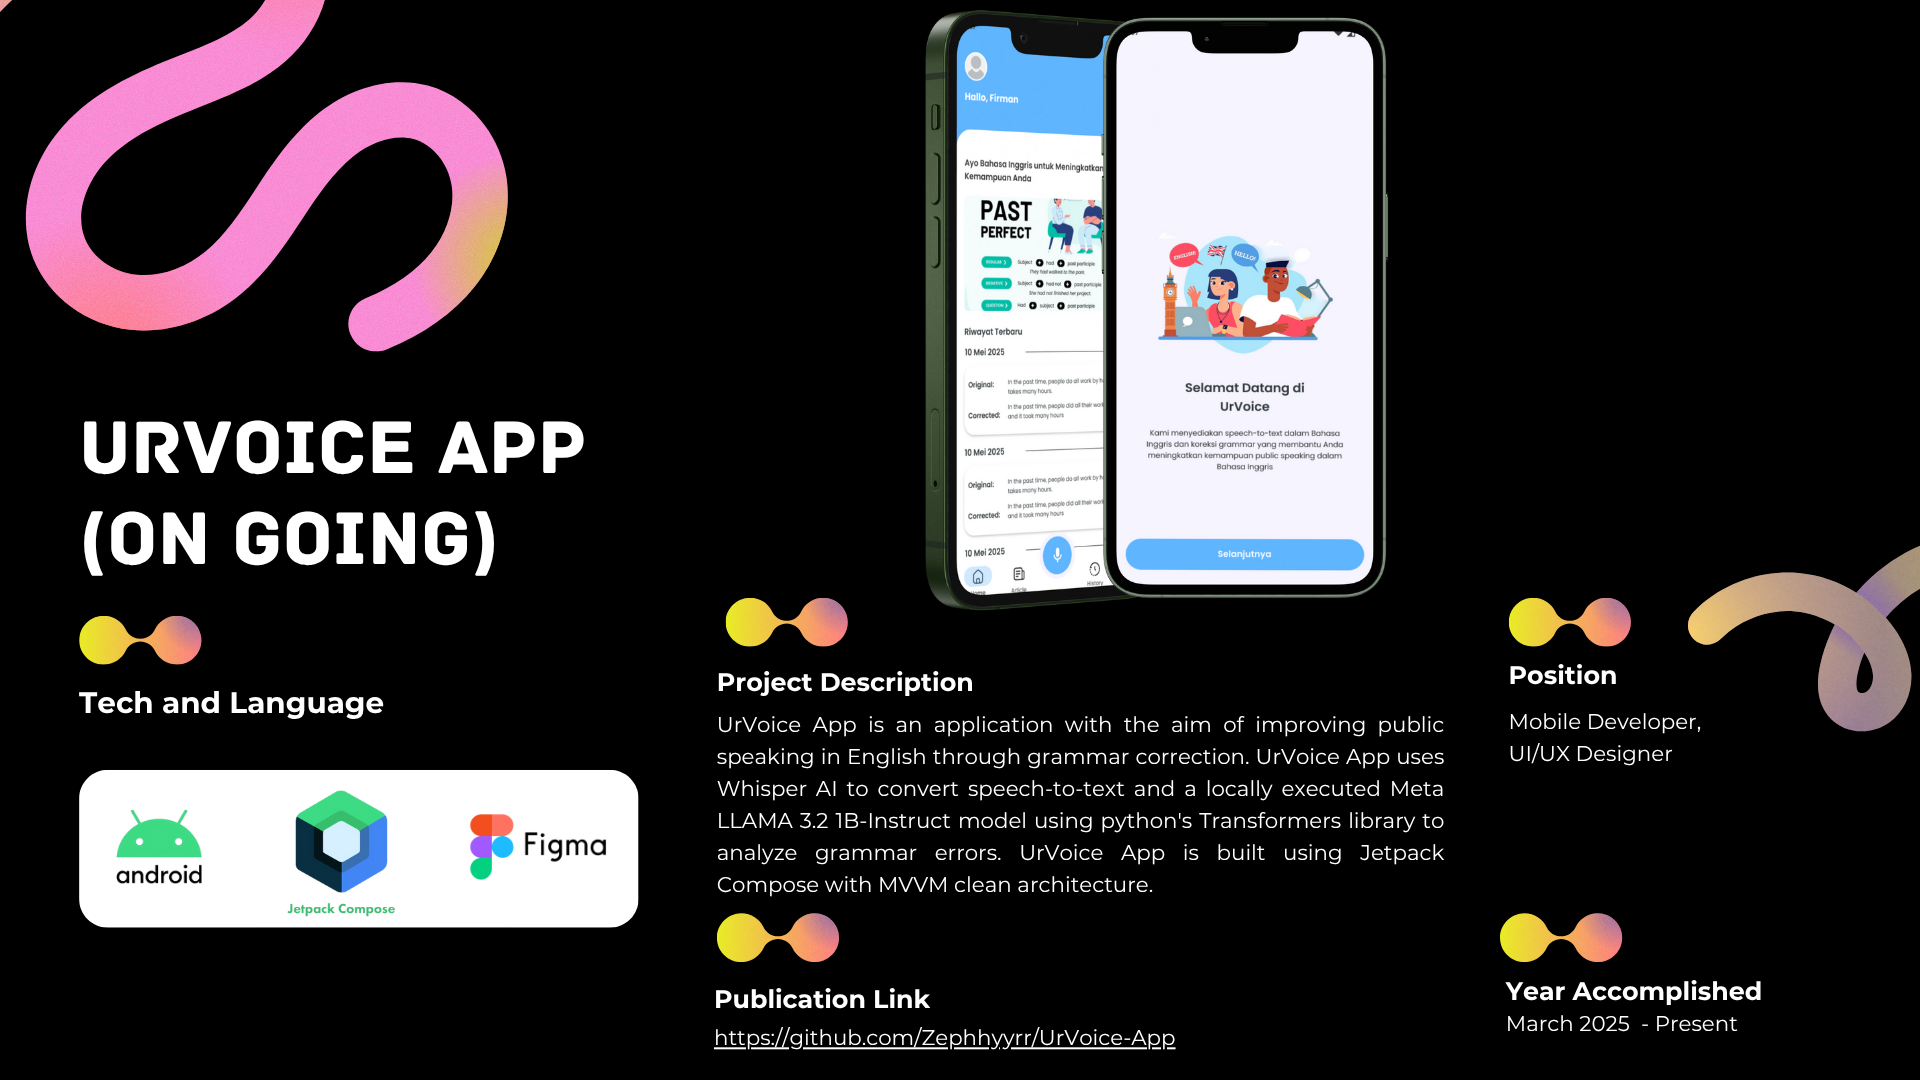
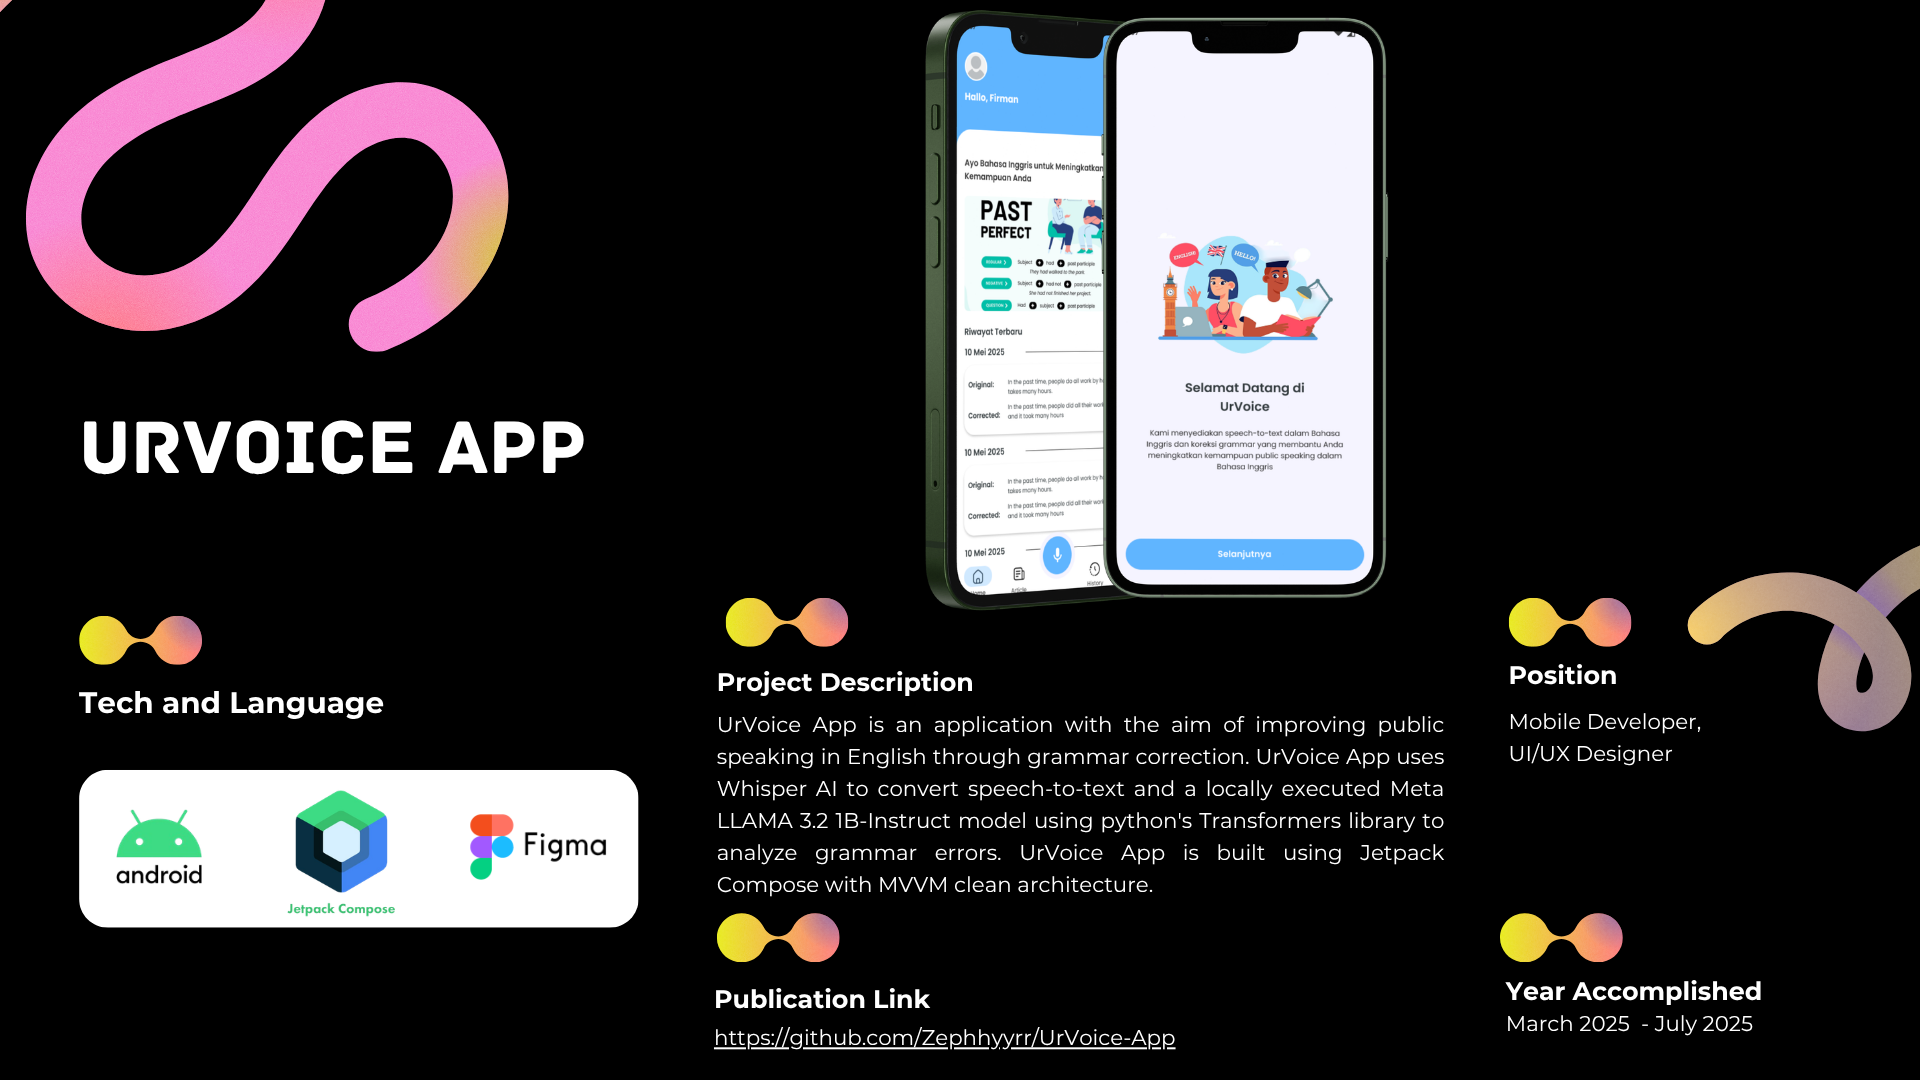
feat: implement interactive 3D lanyard component and add new project asset images

Changed region(s): [[0.0312, 0.4583, 0.2812, 0.5194], [0.875, 0.9167, 0.9062, 0.9778]]

diff --git a/src/components/section/PortofolioSection.vue b/src/components/section/PortofolioSection.vue
@@ -26,16 +26,8 @@
       <!-- Projects Tab -->
       <div v-if="activeTab === 'projects'" class="tab-content">
         <v-row justify="center">
-          <v-col
-            v-for="(project, index) in projects"
-            :key="index"
-            cols="12"
-            sm="6"
-            md="4"
-            :data-aos="'fade-up'"
-            :data-aos-delay="100 * (index + 1)"
-            data-aos-duration="800"
-          >
+          <v-col v-for="(project, index) in projects" :key="index" cols="12" sm="6" md="4" :data-aos="'fade-up'"
+            :data-aos-delay="100 * (index + 1)" data-aos-duration="800">
             <v-card variant="outlined" class="project-card">
               <v-img :src="project.image" height="200px" cover></v-img>
 
@@ -56,14 +48,9 @@
                   Details
                   <v-icon class="ml-1">mdi-arrow-right</v-icon>
                 </v-btn>
-                <v-btn
-                  v-if="project.githubUrl"
-                  class="demo-btn"
-                  variant="text"
-                  :href="project.githubUrl"
-                  target="_blank"
-                >
-                  Github Link
+                <v-btn v-if="project.githubUrl" class="demo-btn" variant="text" :href="project.githubUrl"
+                  target="_blank">
+                  Publication Link
                   <v-icon class="ml-1">mdi-open-in-new</v-icon>
                 </v-btn>
               </v-card-actions>
@@ -75,16 +62,8 @@
       <!-- Certificates Tab -->
       <div v-if="activeTab === 'certificates'" class="tab-content">
         <v-row>
-          <v-col
-            v-for="(certificate, index) in certificates"
-            :key="index"
-            cols="12"
-            sm="6"
-            md="4"
-            :data-aos="'fade-up'"
-            :data-aos-delay="100 * (index + 1)"
-            data-aos-duration="800"
-          >
+          <v-col v-for="(certificate, index) in certificates" :key="index" cols="12" sm="6" md="4" :data-aos="'fade-up'"
+            :data-aos-delay="100 * (index + 1)" data-aos-duration="800">
             <v-card variant="outlined" class="certificate-card">
               <v-img :src="certificate.image" contain class="certificate-img"></v-img>
 
@@ -99,13 +78,8 @@
               </v-card-text>
 
               <v-card-actions>
-                <v-btn
-                  v-if="certificate.verifyUrl"
-                  class="verify-btn"
-                  variant="tonal"
-                  :href="certificate.verifyUrl"
-                  target="_blank"
-                >
+                <v-btn v-if="certificate.verifyUrl" class="verify-btn" variant="tonal" :href="certificate.verifyUrl"
+                  target="_blank">
                   Verify
                   <v-icon class="ml-1">mdi-check-circle</v-icon>
                 </v-btn>
@@ -119,17 +93,9 @@
       <div v-if="activeTab === 'techstack'" class="tab-content">
         <div class="tech-categories" data-aos="fade-up" data-aos-delay="300" data-aos-duration="800">
           <div class="tech-items">
-            <div
-              v-for="(tech, techIndex) in techStack.items"
-              :key="techIndex"
-              class="tech-item"
-              :data-aos="'zoom-in'"
-              :data-aos-delay="100 + techIndex * 100"
-            >
-              <div
-                class="tech-icon"
-                :style="{ backgroundColor: tech.color || '#a759cf20' }"
-              >
+            <div v-for="(tech, techIndex) in techStack.items" :key="techIndex" class="tech-item" :data-aos="'zoom-in'"
+              :data-aos-delay="100 + techIndex * 100">
+              <div class="tech-icon" :style="{ backgroundColor: tech.color || '#a759cf20' }">
                 <v-icon size="x-large" :color="tech.iconColor || '#a759cf'">{{ tech.icon }}</v-icon>
               </div>
               <span class="tech-name">{{ tech.name }}</span>
@@ -146,17 +112,11 @@
           <v-card-subtitle>Role: {{ selectedProject.role }}</v-card-subtitle>
           <v-card-text>
             <p class="full-description">{{ selectedProject.description }}</p>
-            <div
-              v-if="selectedProject.technologies && selectedProject.technologies.length > 0"
-              class="technologies-section"
-            >
+            <div v-if="selectedProject.technologies && selectedProject.technologies.length > 0"
+              class="technologies-section">
               <h3>Technologies Used:</h3>
               <div class="technology-tags">
-                <v-chip
-                  v-for="(tech, techIndex) in selectedProject.technologies"
-                  :key="techIndex"
-                  class="tech-chip"
-                >
+                <v-chip v-for="(tech, techIndex) in selectedProject.technologies" :key="techIndex" class="tech-chip">
                   {{ tech }}
                 </v-chip>
               </div>
@@ -164,14 +124,9 @@
           </v-card-text>
           <v-card-actions>
             <v-spacer></v-spacer>
-            <v-btn
-              v-if="selectedProject.githubUrl"
-              class="demo-btn"
-              variant="text"
-              :href="selectedProject.githubUrl"
-              target="_blank"
-            >
-              Github Link
+            <v-btn v-if="selectedProject.githubUrl" class="demo-btn" variant="text" :href="selectedProject.githubUrl"
+              target="_blank">
+              Publication Link
               <v-icon class="ml-1">mdi-open-in-new</v-icon>
             </v-btn>
             <v-btn class="close-btn" variant="tonal" @click="dialogVisible = false">
@@ -193,6 +148,38 @@ const selectedProject = ref(null);
 
 // Projects data
 const projects = [
+  {
+    title: "Mosque Financial Management Information System",
+    role: "Fullstack Developer & AI Engineer",
+    description: "\"Final Project: Mosque Financial Management Information System and Donation Forecasting\" (February – Now). This project is a thesis focused on developing a mosque financial management system integrated with a donation forecasting model. The forecasting system uses a hybrid time series forecasting combining Prophet for trend and seasonality modeling and LightGBM for residual learning. I developed the backend using Express.js with a PostgreSQL database and the frontend using Nuxt.js.",
+    image: "/images/zamfis.png",
+    githubUrl: "https://zamfis.nekosukuriputo.dev/",
+    technologies: ["Nuxt.js", "Express.js", "PostgreSQL", "Prophet", "LightGBM"],
+  },
+  {
+    title: "Rima Batombe",
+    role: "Fullstack Developer",
+    description: "\"Rima Batombe\" (August - December 2025). This project is a digital platform designed to preserve Batombe culture from Nagari Abai, South Solok. It uses Generative AI via the Gemini API to generate Batombe-style pantun and includes features such as pantun sharing, a collection of authentic pantun, and a Minangkabau language learning module. I developed the Android app using Jetpack Compose with MVVM architecture, the backend using Express.js, and handled deployment using Docker and Kubernetes.",
+    image: "/images/rima_batombe.png",
+    githubUrl: "https://appdistribution.firebase.google.com/i/7358cdd0da7facb8",
+    technologies: ["Jetpack Compose", "MVVM", "Express.js", "Docker", "Kubernetes", "Gemini API"],
+  },
+  {
+    title: "Teaching Factory System SMKN 2 Batusangkar",
+    role: "Backend Developer",
+    description: "\"Community Service Project at SMK Negeri 2 Batusangkar\" (Mei – July 2025). This was a community engagement project conducted in collaboration with my university lecturer. We developed an information system website to manage the outcomes of the school's Teaching Factory program. I was responsible for the backend development using Express.js, with PostgreSQL as the database and Prisma ORM for database management.",
+    image: "/images/tefa.png",
+    githubUrl: "https://tefa.smkn2batusangkar.sch.id/",
+    technologies: ["Express.js", "PostgreSQL", "Prisma ORM"],
+  },
+  {
+    title: "License Plate Recognition (LPR) Surabaya",
+    role: "AI Engineer",
+    description: "Building a License Plate Recognition (LPR) model for the Surabaya City Government, including annotation and augmentation with Roboflow, modeling using YOLO 11n, and performance optimization through hyperparameter tuning and determining the best threshold based on F1-Score using the Grid Search method.",
+    image: "/images/lpr.png",
+    githubUrl: "https://github.com/Zephhyyrr/Licence-Plate-Recognition-Night-Condition",
+    technologies: ["Roboflow", "YOLO 11n", "Hyperparameter Tuning", "Grid Search"],
+  },
   {
     title: "UrVoice App",
     role: "Mobile App Developer, UI/UX Designer",
@@ -373,6 +360,9 @@ const techStack = {
     { name: "HTML5", icon: "mdi-language-html5", color: "#FFEBEE", iconColor: "#E34F26" },
     { name: "CSS", icon: "mdi-language-css3", color: "#FFEBEE", iconColor: "#1572B6" },
     { name: "Bootstrap", icon: "mdi-bootstrap", color: "#FFEBEE", iconColor: "#563D7C" },
+    { name: "Golang", icon: "mdi-language-go", color: "#E0F7FA", iconColor: "#00ADD8" },
+    { name: "Nuxt.js", icon: "mdi-nuxt", color: "#E8F5E9", iconColor: "#00C58E" },
+    { name: "Firebase", icon: "mdi-firebase", color: "#FFF3E0", iconColor: "#FFCA28" },
   ]
 };
 

diff --git a/src/components/Lanyard/LanyardReact.jsx b/src/components/Lanyard/LanyardReact.jsx
@@ -140,23 +140,25 @@ function Band({ maxSpeed = 50, minSpeed = 0 }) {
 
 export default function LanyardReact({ position = [0, 0, 20], gravity = [0, -40, 0], fov = 17, transparent = true }) {
   return (
-    <div className="lanyard-wrapper">
+    <>
       <Canvas
         camera={{ position: position, fov: fov }}
         gl={{ alpha: transparent }}
         onCreated={({ gl }) => gl.setClearColor(new THREE.Color(0x000000), transparent ? 0 : 1)}
       >
         <ambientLight intensity={Math.PI} />
-        <Physics gravity={gravity} timeStep={1 / 60}>
-          <Band />
-        </Physics>
-        <Environment blur={0.0}>
-          <Lightformer intensity={2} color="white" position={[0, -1, 5]} rotation={[0, 0, Math.PI / 3]} scale={[100, 0.1, 1]} />
-          <Lightformer intensity={3} color="white" position={[-1, -1, 1]} rotation={[0, 0, Math.PI / 3]} scale={[100, 0.1, 1]} />
-          <Lightformer intensity={3} color="white" position={[1, 1, 1]} rotation={[0, 0, Math.PI / 3]} scale={[100, 0.1, 1]} />
-          <Lightformer intensity={10} color="white" position={[-10, 0, 14]} rotation={[0, Math.PI / 2, Math.PI / 3]} scale={[100, 10, 1]} />
-        </Environment>
+        <React.Suspense fallback={null}>
+          <Physics gravity={gravity} timeStep={1 / 60}>
+            <Band />
+          </Physics>
+          <Environment blur={0.0}>
+            <Lightformer intensity={2} color="white" position={[0, -1, 5]} rotation={[0, 0, Math.PI / 3]} scale={[100, 0.1, 1]} />
+            <Lightformer intensity={3} color="white" position={[-1, -1, 1]} rotation={[0, 0, Math.PI / 3]} scale={[100, 0.1, 1]} />
+            <Lightformer intensity={3} color="white" position={[1, 1, 1]} rotation={[0, 0, Math.PI / 3]} scale={[100, 0.1, 1]} />
+            <Lightformer intensity={10} color="white" position={[-10, 0, 14]} rotation={[0, Math.PI / 2, Math.PI / 3]} scale={[100, 10, 1]} />
+          </Environment>
+        </React.Suspense>
       </Canvas>
-    </div>
+    </>
   );
 }

diff --git a/src/components/Lanyard/Lanyard.css b/src/components/Lanyard/Lanyard.css
@@ -2,7 +2,8 @@
   position: absolute;
   top: 0;
   right: 0;
-  width: auto;
+  width: 100%;
+  max-width: 600px;
   height: 80vh;
   display: flex;
   justify-content: flex-end;

diff --git a/src/components/section/HomeSection.vue b/src/components/section/HomeSection.vue
@@ -37,7 +37,7 @@
               class="custom-btn mr-3"
               variant="tonal"
               color="primary"
-              href="https://drive.google.com/file/d/1hBI47bZaVeKaNvOdRi9j49C8iIW0g8AD/view?usp=sharing"
+              href="https://drive.google.com/file/d/1BTSg5CrZXfJz--Mf5RlX-kWXkLwVChXV/view?usp=sharing"
               target="_blank"
             >
               My Resume